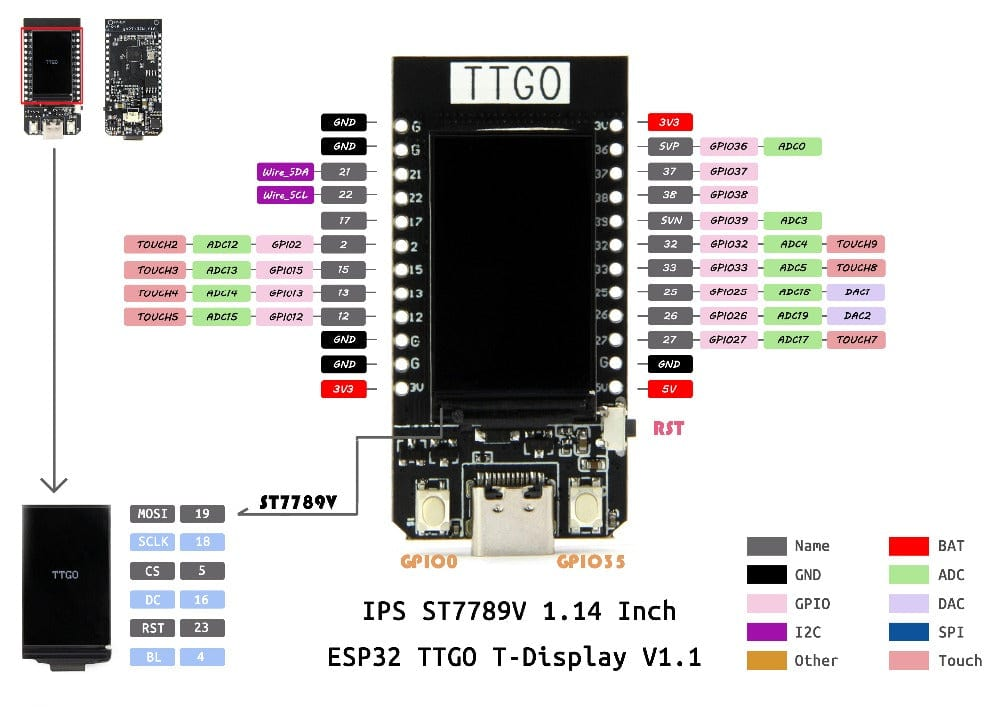
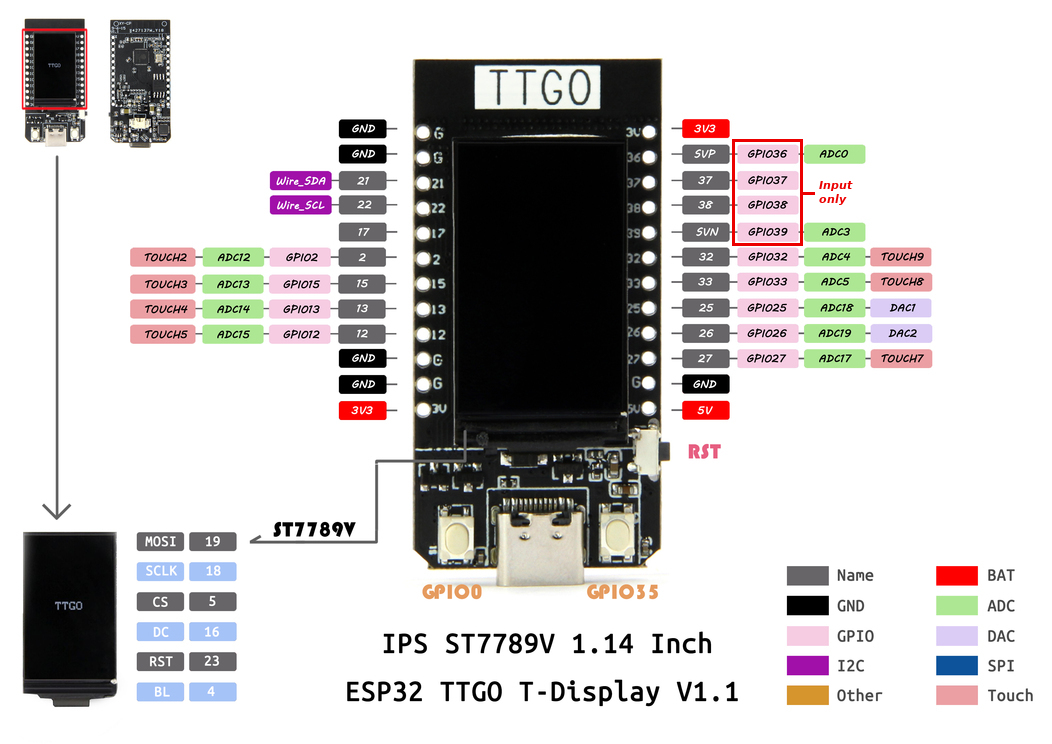
T-Display README and updated pinout with input-only pins labeled

diff --git a/Getting_Started/ESP32_TTGO_T-Display/README.md b/Getting_Started/ESP32_TTGO_T-Display/README.md
@@ -50,13 +50,34 @@ Overall, the LilyGo TTGO T-Display ESP32 is a powerful and versatile development
 * User Configuration AT + Instruction set, cloud server, android/iOSapp
 * OS FreeRTOS
 
-
 <img src="../../Devices/ESP32_TTGO_T-Display_v1_1.jpg" width="600">
 
-[Hardware Pinout Diagram PDF](https://content.arduino.cc/assets/Pinout-Mega2560rev3_latest.pdf)
+[TTGO T-Display GitHub](https://github.com/Xinyuan-LilyGO/TTGO-T-Display)
+[Schematic Diagram](https://github.com/Xinyuan-LilyGO/TTGO-T-Display/blob/master/schematic/ESP32-TFT(6-26).pdf)
+
+## Arduino IDE installation to support ESP32 TTGO T-Display
+Here are the step-by-step instructions for installing the Arduino IDE and configuring it to support the ESP32 TTGO T-Display:
+
+1. Download the Arduino IDE from the official website: https://www.arduino.cc/en/software
+2. Install the Arduino IDE on your computer.
+3. Open the Arduino IDE and click on "File" in the menu bar.
+4. Select "Preferences" from the dropdown menu.
+5. In the "Additional Boards Manager URLs" field, add the following URL: https://raw.githubusercontent.com/espressif/arduino-esp32/gh-pages/package_esp32_index.json (Separate by commas or click blue button on right if you have multiple additional board manager URLs.)
+6. Click "OK" to close the preferences window.
+7. Go to "Tools" in the menu bar, and select "Board" from the dropdown menu.
+8. Select "Boards Manager" from the submenu.
+9. In the "Boards Manager" window, search for "ESP32".
+10. Click on "esp32 by Espressif Systems" and click the "Install" button.
+11. Wait for the installation to complete.
+12. Close the "Boards Manager" window.
+13. In the "Tools" menu, select "Board" again and select "ESP32 Dev Module" as the board.
+14. Connect the ESP32 TTGO T-Display to your computer using a USB-C cable.
+15. In the "Tools" menu, select "Port" and choose the correct port for your ESP32 TTGO T-Display.
+16. You are now ready to develop for the ESP32 TTGO T-Display using the Arduino IDE.
+
+Note: Some additional libraries may be required for developing with the ESP32 TTGO T-Display, depending on your specific project needs. You can find these libraries in the Arduino Library Manager, which can be accessed through the "Sketch" menu in the Arduino IDE.
 
 ## Inventory checks
-* [000 Blink built-in LED](000-Blink)
 * [002 Light Emitting Diode](002-LightEmittingDiode)
 * [004 RGB Light Emitting Diode/](004-RGB-LightEmittingDiode)
 * [006 Photo Resistor](006-PhotoResistor)
